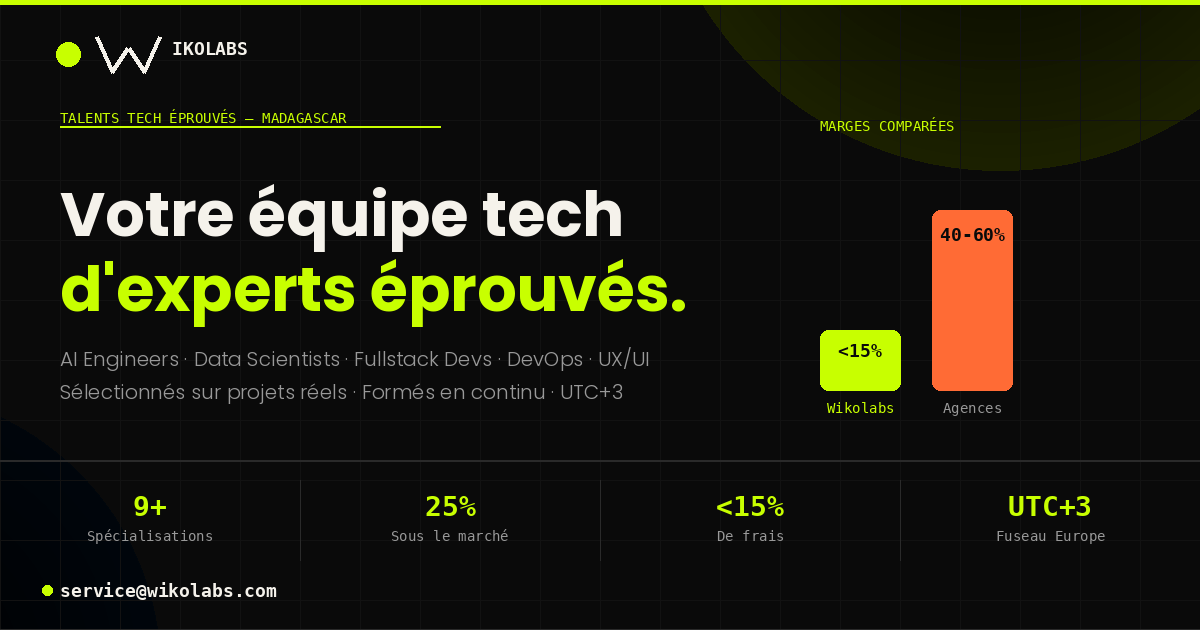
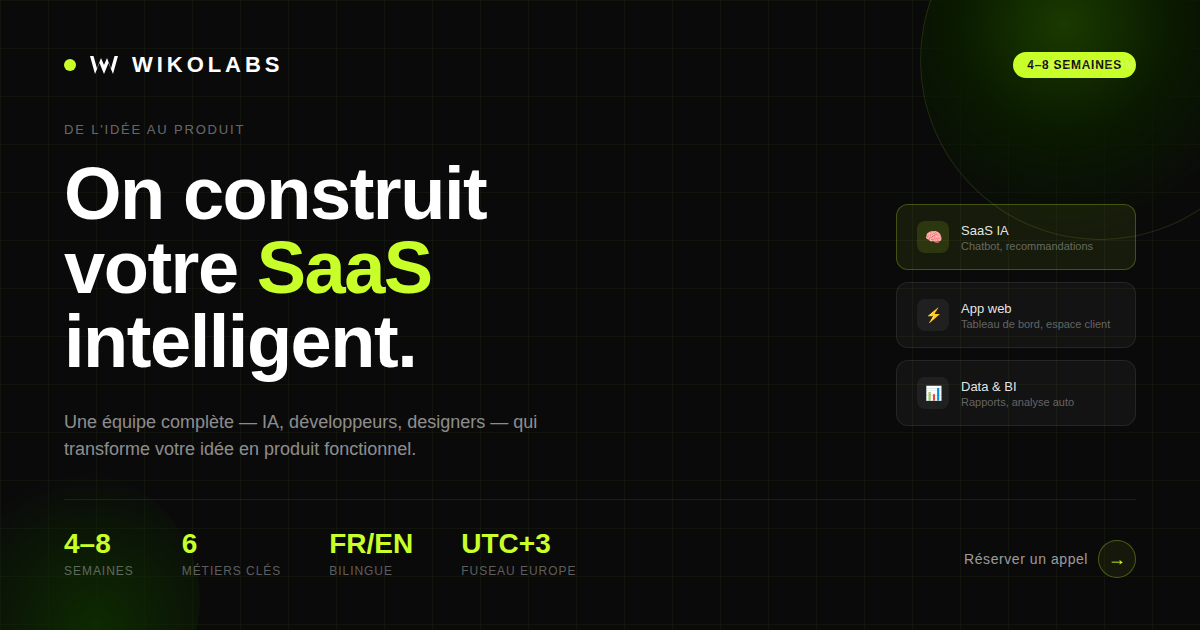
feat: update metadatas

diff --git a/src/app/[locale]/layout.tsx b/src/app/[locale]/layout.tsx
@@ -18,54 +18,74 @@ export async function generateMetadata({
 
   if (locale === "en") {
     return {
-      title: "Wikolabs — Proven tech experts from Madagascar",
+      title: "Wikolabs — We build your intelligent SaaS",
       description:
-        "Structured tech teams, continuously trained, at rates 25% below the European market. AI Engineers, Data Scientists, Fullstack Devs, DevOps — selected on real projects.",
+        "A complete team — AI engineers, developers, designers — that turns your idea into a working product in 4 to 8 weeks. From idea to launch, with AI built in.",
       keywords: [
-        "freelance Madagascar",
-        "developer Madagascar",
-        "AI Engineer",
-        "Data Scientist",
-        "remote work Africa",
-        "tech outsourcing Madagascar",
+        "SaaS development Madagascar",
+        "AI product studio",
+        "build SaaS with AI",
+        "intelligent web app",
+        "MVP development",
+        "AI integration existing product",
+        "dedicated tech team",
         "Wikolabs",
-        "outsourced tech team",
-        "nearshore Madagascar",
+        "software development Madagascar",
+        "nearshore SaaS studio",
       ],
       openGraph: {
-        title: "Wikolabs — Your proven tech expert team",
+        title: "Wikolabs — We build your intelligent SaaS",
         description:
-          "Tech talent selected on real projects, continuously trained, at rates 25% below market. Among the lowest fees in the industry.",
+          "From idea to product in 4–8 weeks. A full team of AI engineers, developers and designers — ready to build your SaaS.",
         type: "website",
         locale: "en_US",
-        images: [{ url: "/og-image.png", width: 1200, height: 630 }],
+        url: "https://wikolabs.com",
+        siteName: "Wikolabs",
+        images: [{ url: "/og-image.png", width: 1200, height: 630, alt: "Wikolabs — We build your intelligent SaaS" }],
+      },
+      twitter: {
+        card: "summary_large_image",
+        title: "Wikolabs — We build your intelligent SaaS",
+        description:
+          "From idea to product in 4–8 weeks. AI engineers, developers and designers — all in one team.",
+        images: ["/og-image.png"],
       },
       icons: { icon: "/favicon.ico", apple: "/apple-touch-icon.png" },
     };
   }
 
   return {
-    title: "Wikolabs — Experts tech éprouvés depuis Madagascar",
+    title: "Wikolabs — On construit votre SaaS intelligent",
     description:
-      "Équipes tech structurées, formées en continu, à des tarifs 25% sous le marché européen. AI Engineers, Data Scientists, Fullstack Devs, DevOps — sélectionnés sur projets réels.",
+      "Une équipe complète — ingénieurs IA, développeurs, designers — qui transforme votre idée en produit fonctionnel en 4 à 8 semaines. De l'idée au lancement, avec l'IA intégrée.",
     keywords: [
-      "freelance Madagascar",
-      "développeur Madagascar",
-      "AI Engineer",
-      "Data Scientist",
-      "remote work Africa",
-      "tech outsourcing Madagascar",
+      "développement SaaS Madagascar",
+      "studio produit IA",
+      "créer SaaS avec IA",
+      "application web intelligente",
+      "développement MVP",
+      "intégration IA produit existant",
+      "équipe tech dédiée",
       "Wikolabs",
-      "équipe tech externalisée",
-      "nearshore Madagascar",
+      "développement logiciel Madagascar",
+      "studio SaaS nearshore",
     ],
     openGraph: {
-      title: "Wikolabs — Votre équipe tech d'experts éprouvés",
+      title: "Wikolabs — On construit votre SaaS intelligent",
       description:
-        "Talents tech sélectionnés sur projets réels, formés en continu, à des tarifs 25% sous le marché. Marges parmi les plus basses du secteur.",
+        "De l'idée au produit en 4 à 8 semaines. Une équipe complète d'ingénieurs IA, développeurs et designers — prête à construire votre SaaS.",
       type: "website",
       locale: "fr_FR",
-      images: [{ url: "/og-image.png", width: 1200, height: 630 }],
+      url: "https://wikolabs.com",
+      siteName: "Wikolabs",
+      images: [{ url: "/og-image.png", width: 1200, height: 630, alt: "Wikolabs — On construit votre SaaS intelligent" }],
+    },
+    twitter: {
+      card: "summary_large_image",
+      title: "Wikolabs — On construit votre SaaS intelligent",
+      description:
+        "De l'idée au produit en 4 à 8 semaines. Ingénieurs IA, développeurs et designers — tout en une seule équipe.",
+      images: ["/og-image.png"],
     },
     icons: { icon: "/favicon.ico", apple: "/apple-touch-icon.png" },
   };
